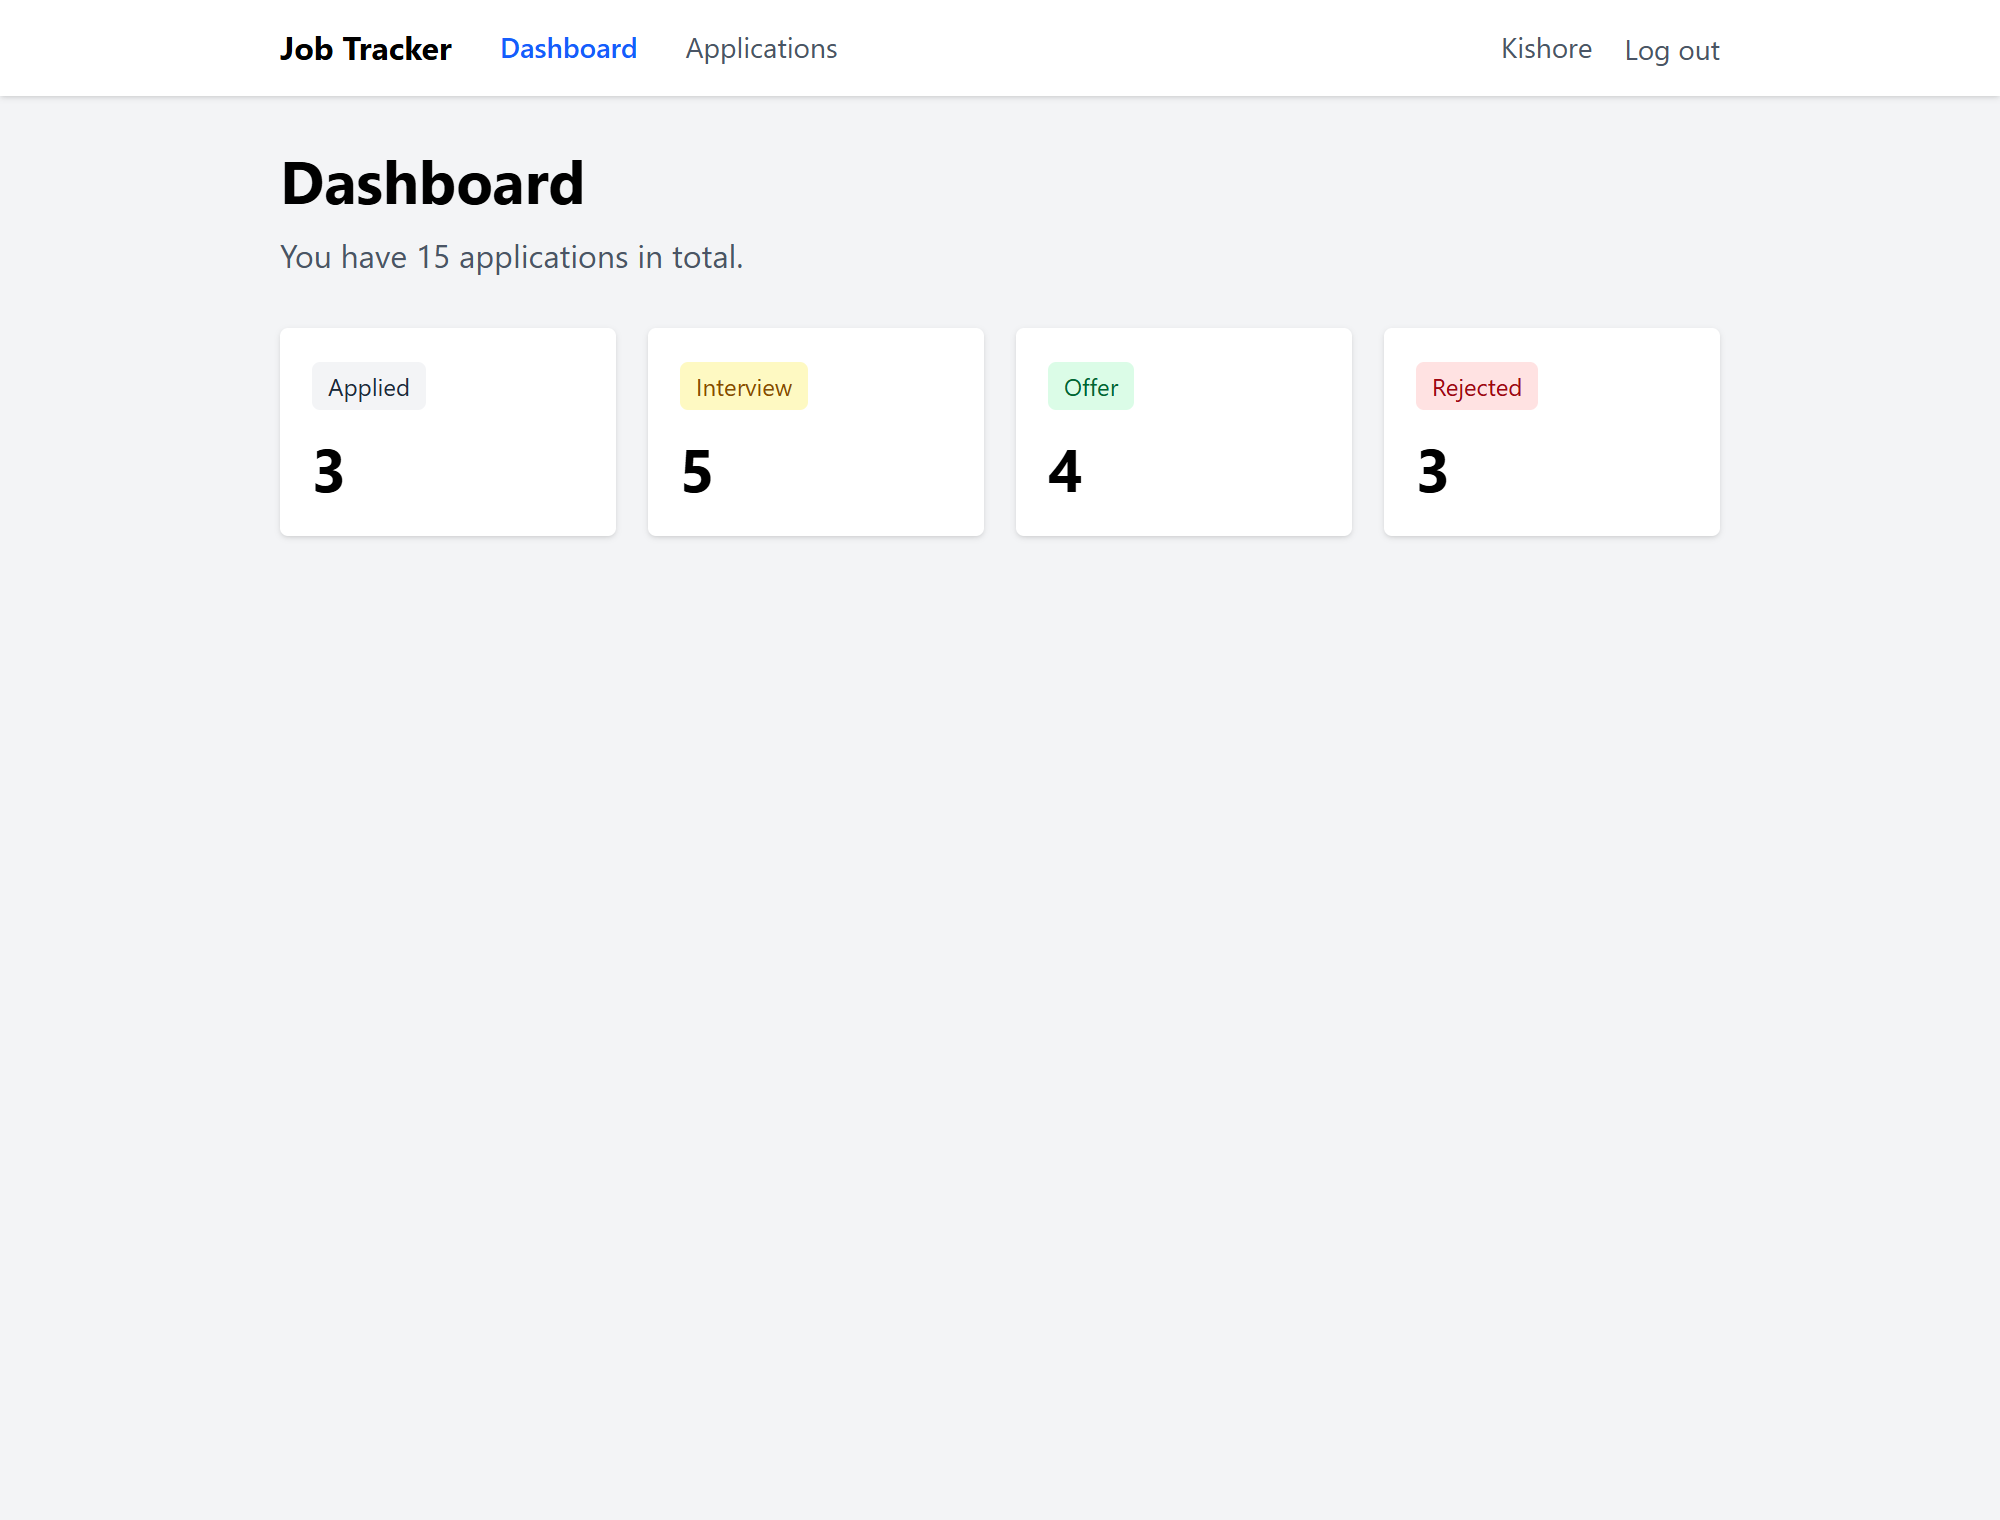
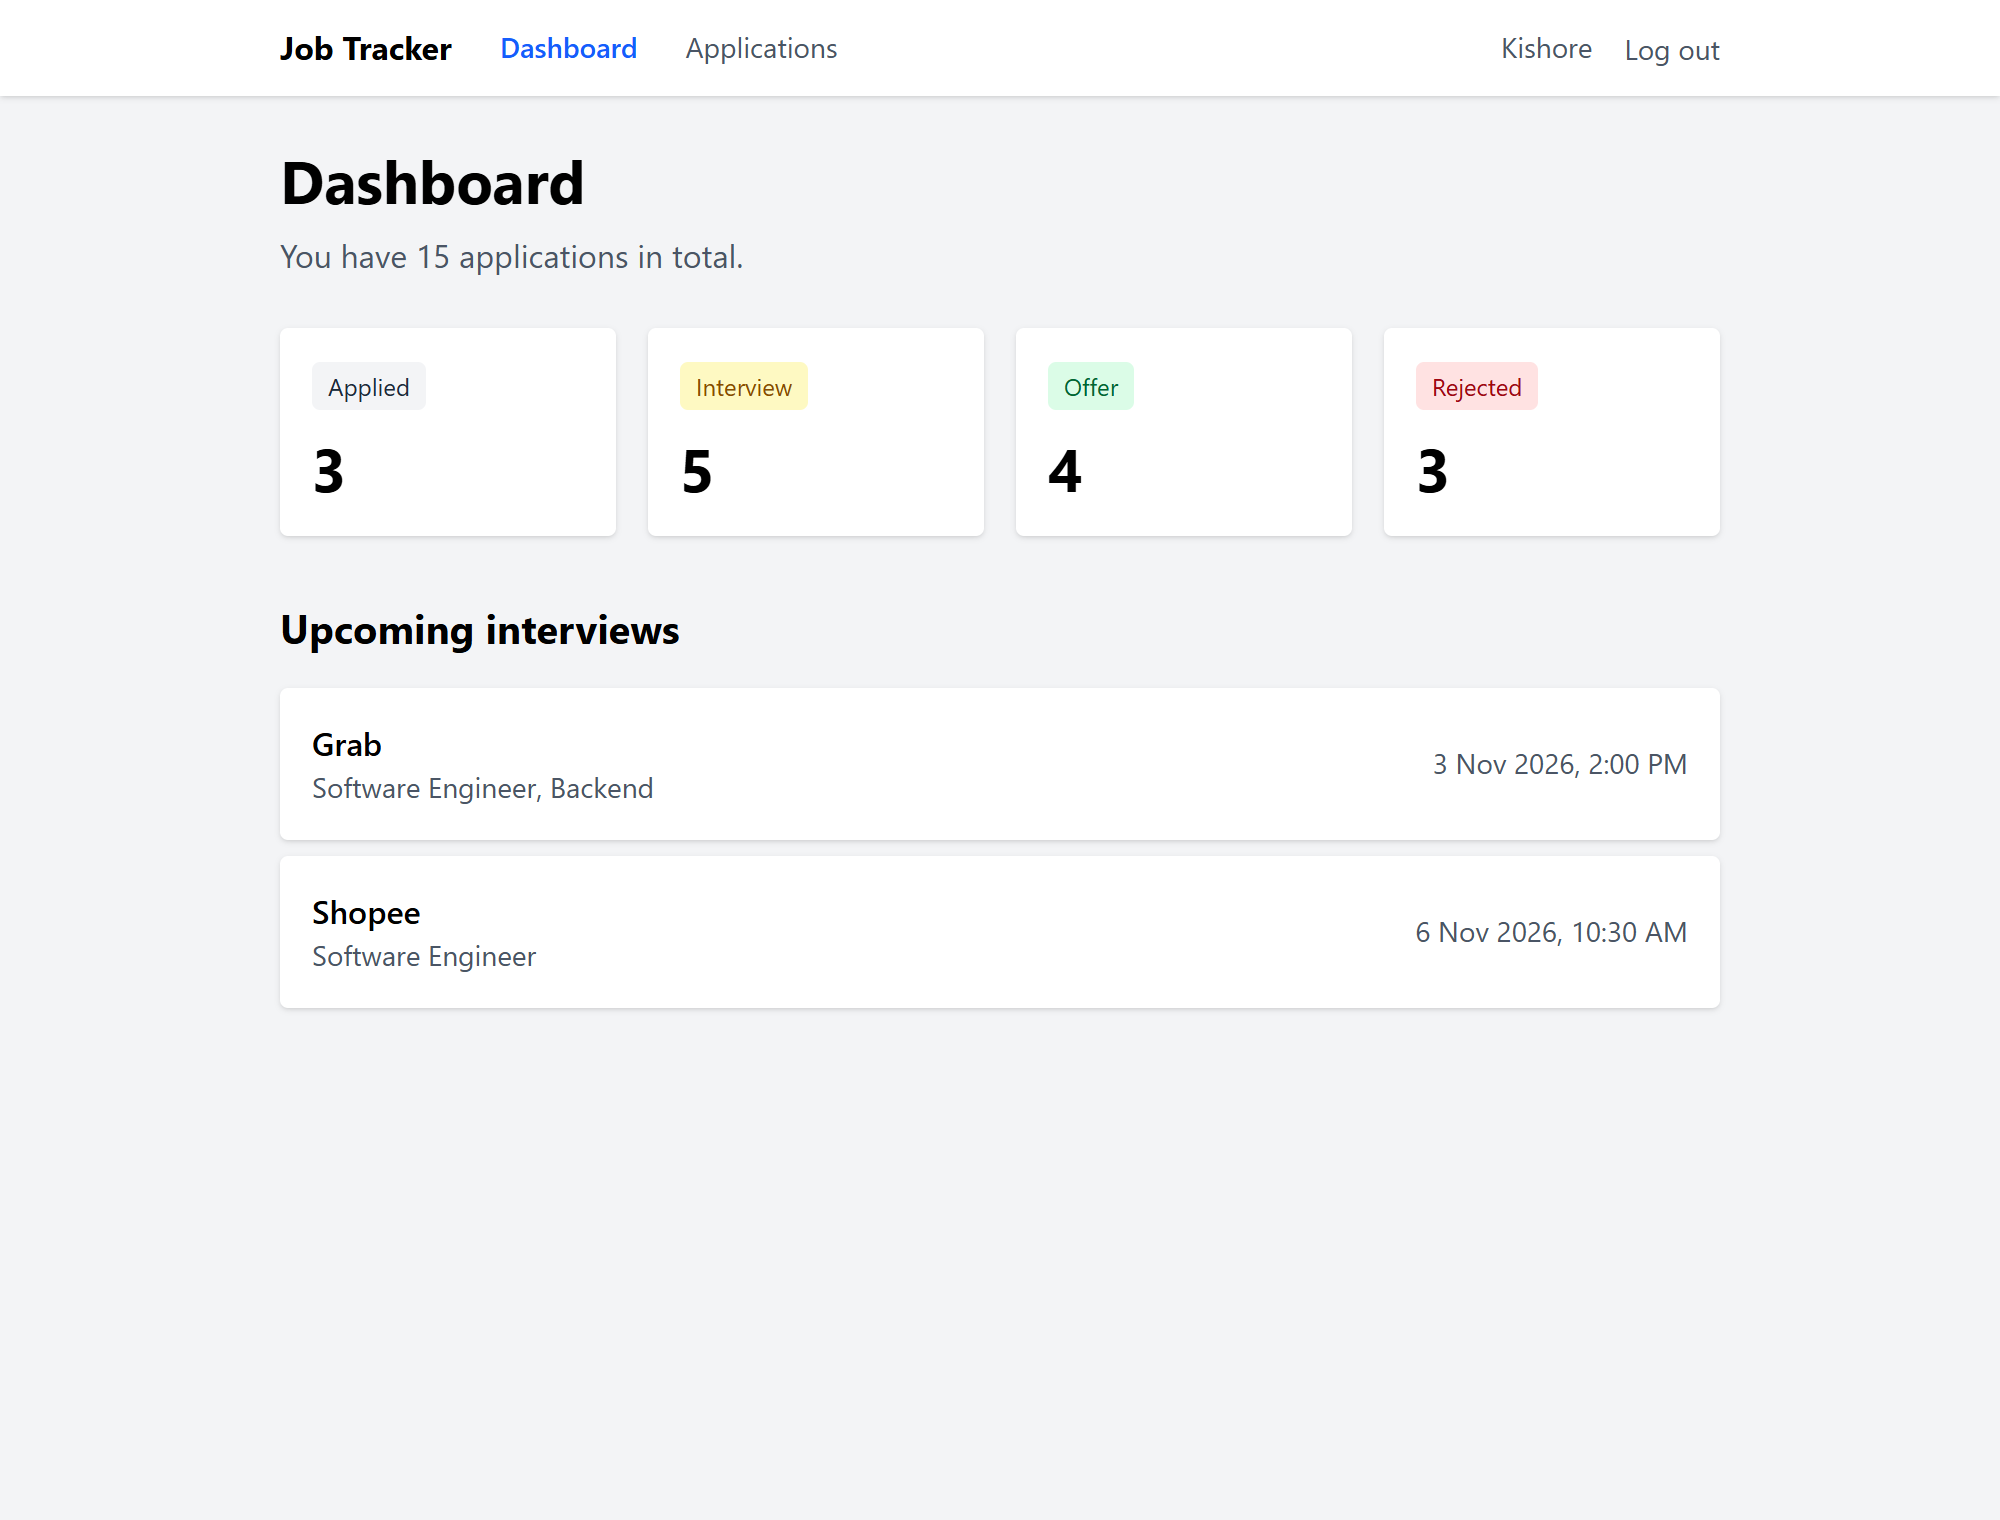
docs: add interview dates to README; refresh screenshots

diff --git a/README.md b/README.md
@@ -16,7 +16,10 @@ Built with Laravel 13, Tailwind CSS and MySQL.
 - **Authorization**: a policy blocks users from viewing, editing or deleting records they
   don't own, including by typing the URL directly. The web app and the API share it.
 - **Full CRUD**: add, view, edit and delete job applications
-- **Dashboard**: a count of applications per status. Each card links to the filtered list.
+- **Dashboard**: a count of applications per status, with each card linking to the filtered
+  list, and your next five upcoming interviews
+- **Interview dates**: an optional interview date and time on each application, shown on its
+  detail page
 - **Status tracking**: applied / interview / offer / rejected, with colour-coded badges. The
   statuses are defined once, in a PHP enum.
 - **Search and filter**: search by company, filter by status, or combine both. Filters
@@ -27,7 +30,8 @@ Built with Laravel 13, Tailwind CSS and MySQL.
 - **REST API**: log in for a token, then list, view, create, update and delete applications
   as JSON (see [API](#api) below)
 
-Each application records the company, role, status, date applied, salary range and free-text notes.
+Each application records the company, role, status, date applied, interview date, salary range
+and free-text notes.
 
 ## Screenshots
 
@@ -84,7 +88,7 @@ curl -H "Accept: application/json" \
 
 `POST` and `PUT` take the same fields as the web form: `company`, `role`, `status`
 (`applied`, `interview`, `offer` or `rejected`), `applied_date` (`YYYY-MM-DD`), and the optional
-`salary_range` and `notes`.
+`interview_at` (a date and time), `salary_range` and `notes`.
 
 An application looks like this:
 
@@ -96,6 +100,7 @@ An application looks like this:
     "role": "Software Engineer, Backend",
     "status": "interview",
     "applied_date": "2026-10-14",
+    "interview_at": "2026-11-03T14:00:00+08:00",
     "salary_range": "RM7000-9000",
     "notes": "Referred by a former colleague...",
     "created_at": "2026-10-14T07:13:39.000000Z"
@@ -165,10 +170,11 @@ Open http://localhost:8000, register an account, and you're in.
 php artisan test
 ```
 
-14 feature tests cover:
+15 feature tests cover:
 
 - **Web app**: authentication, per-user data scoping, validation and the authorization policy
-- **Dashboard**: guests are redirected, and counts include only the logged-in user's applications
+- **Dashboard**: guests are redirected, counts include only the logged-in user's applications,
+  and upcoming interviews leave out past interviews and other users' interviews
 - **API**: token login, wrong passwords, unauthenticated requests, per-user listing, creating
   an application, and blocking updates to another user's record
 
@@ -184,7 +190,7 @@ every push.
 | `app/Models/Application.php` | The Eloquent model, with its owner and its date and status casts |
 | `app/Models/User.php` | `hasMany` applications, and Sanctum's `HasApiTokens` |
 | `app/Http/Controllers/ApplicationController.php` | The web app's seven RESTful actions |
-| `app/Http/Controllers/DashboardController.php` | Counts per status in one grouped query |
+| `app/Http/Controllers/DashboardController.php` | Counts per status in one grouped query, and upcoming interviews |
 | `app/Http/Controllers/Auth/` | Registration and session (login/logout) controllers |
 | `app/Http/Controllers/Api/` | API login/logout and the API's application actions |
 | `app/Http/Requests/ApplicationRequest.php` | Validation rules shared by web and API |
@@ -207,6 +213,11 @@ myself, including the controllers, models, migrations, views, policy and tests, 
 time, running each change in the browser before moving on. The rest is Laravel's own
 scaffolding, and this README was drafted with the assistant's help.
 
+For the most recent feature, interview dates, I worked from requirements and hints instead of
+step-by-step code: I read the Laravel docs, wrote the migration, form, views and query myself,
+and fixed my own bugs along the way. Its dashboard test was written by the assistant, and I
+reviewed it and explained back what it checks.
+
 The point was to come out of it able to read and debug Laravel, not just to end up with
 working code. A fair amount of the learning came from the mistakes: a misspelled `$request->`
 property that silently dropped data, a validation rule with a stray space in it that made one
@@ -220,12 +231,13 @@ spoofing for PUT and DELETE, server-side validation and Form Requests, route mod
 query building with `when()`, aggregate queries with `groupBy`, authentication, foreign keys
 and relationships, authorization policies, PHP enums and model casts, pagination, REST APIs
 with Sanctum tokens and API Resources, feature testing, styling with Tailwind, code formatting
-with Pint, and continuous integration with GitHub Actions.
+with Pint, continuous integration with GitHub Actions, and date-time handling, including
+setting the app's timezone after spotting that interview times came out in UTC.
 
 ## Possible next steps
 
 - Deploying it somewhere public
-- Interview dates, with an "upcoming interviews" section on the dashboard
-- Email reminders to follow up on applications with no reply
+- Email reminders the day before an interview, and to follow up on applications with no reply
+- Showing the interview date field only for statuses where it applies
 - File uploads for CVs and cover letters
 - Email verification on registration
